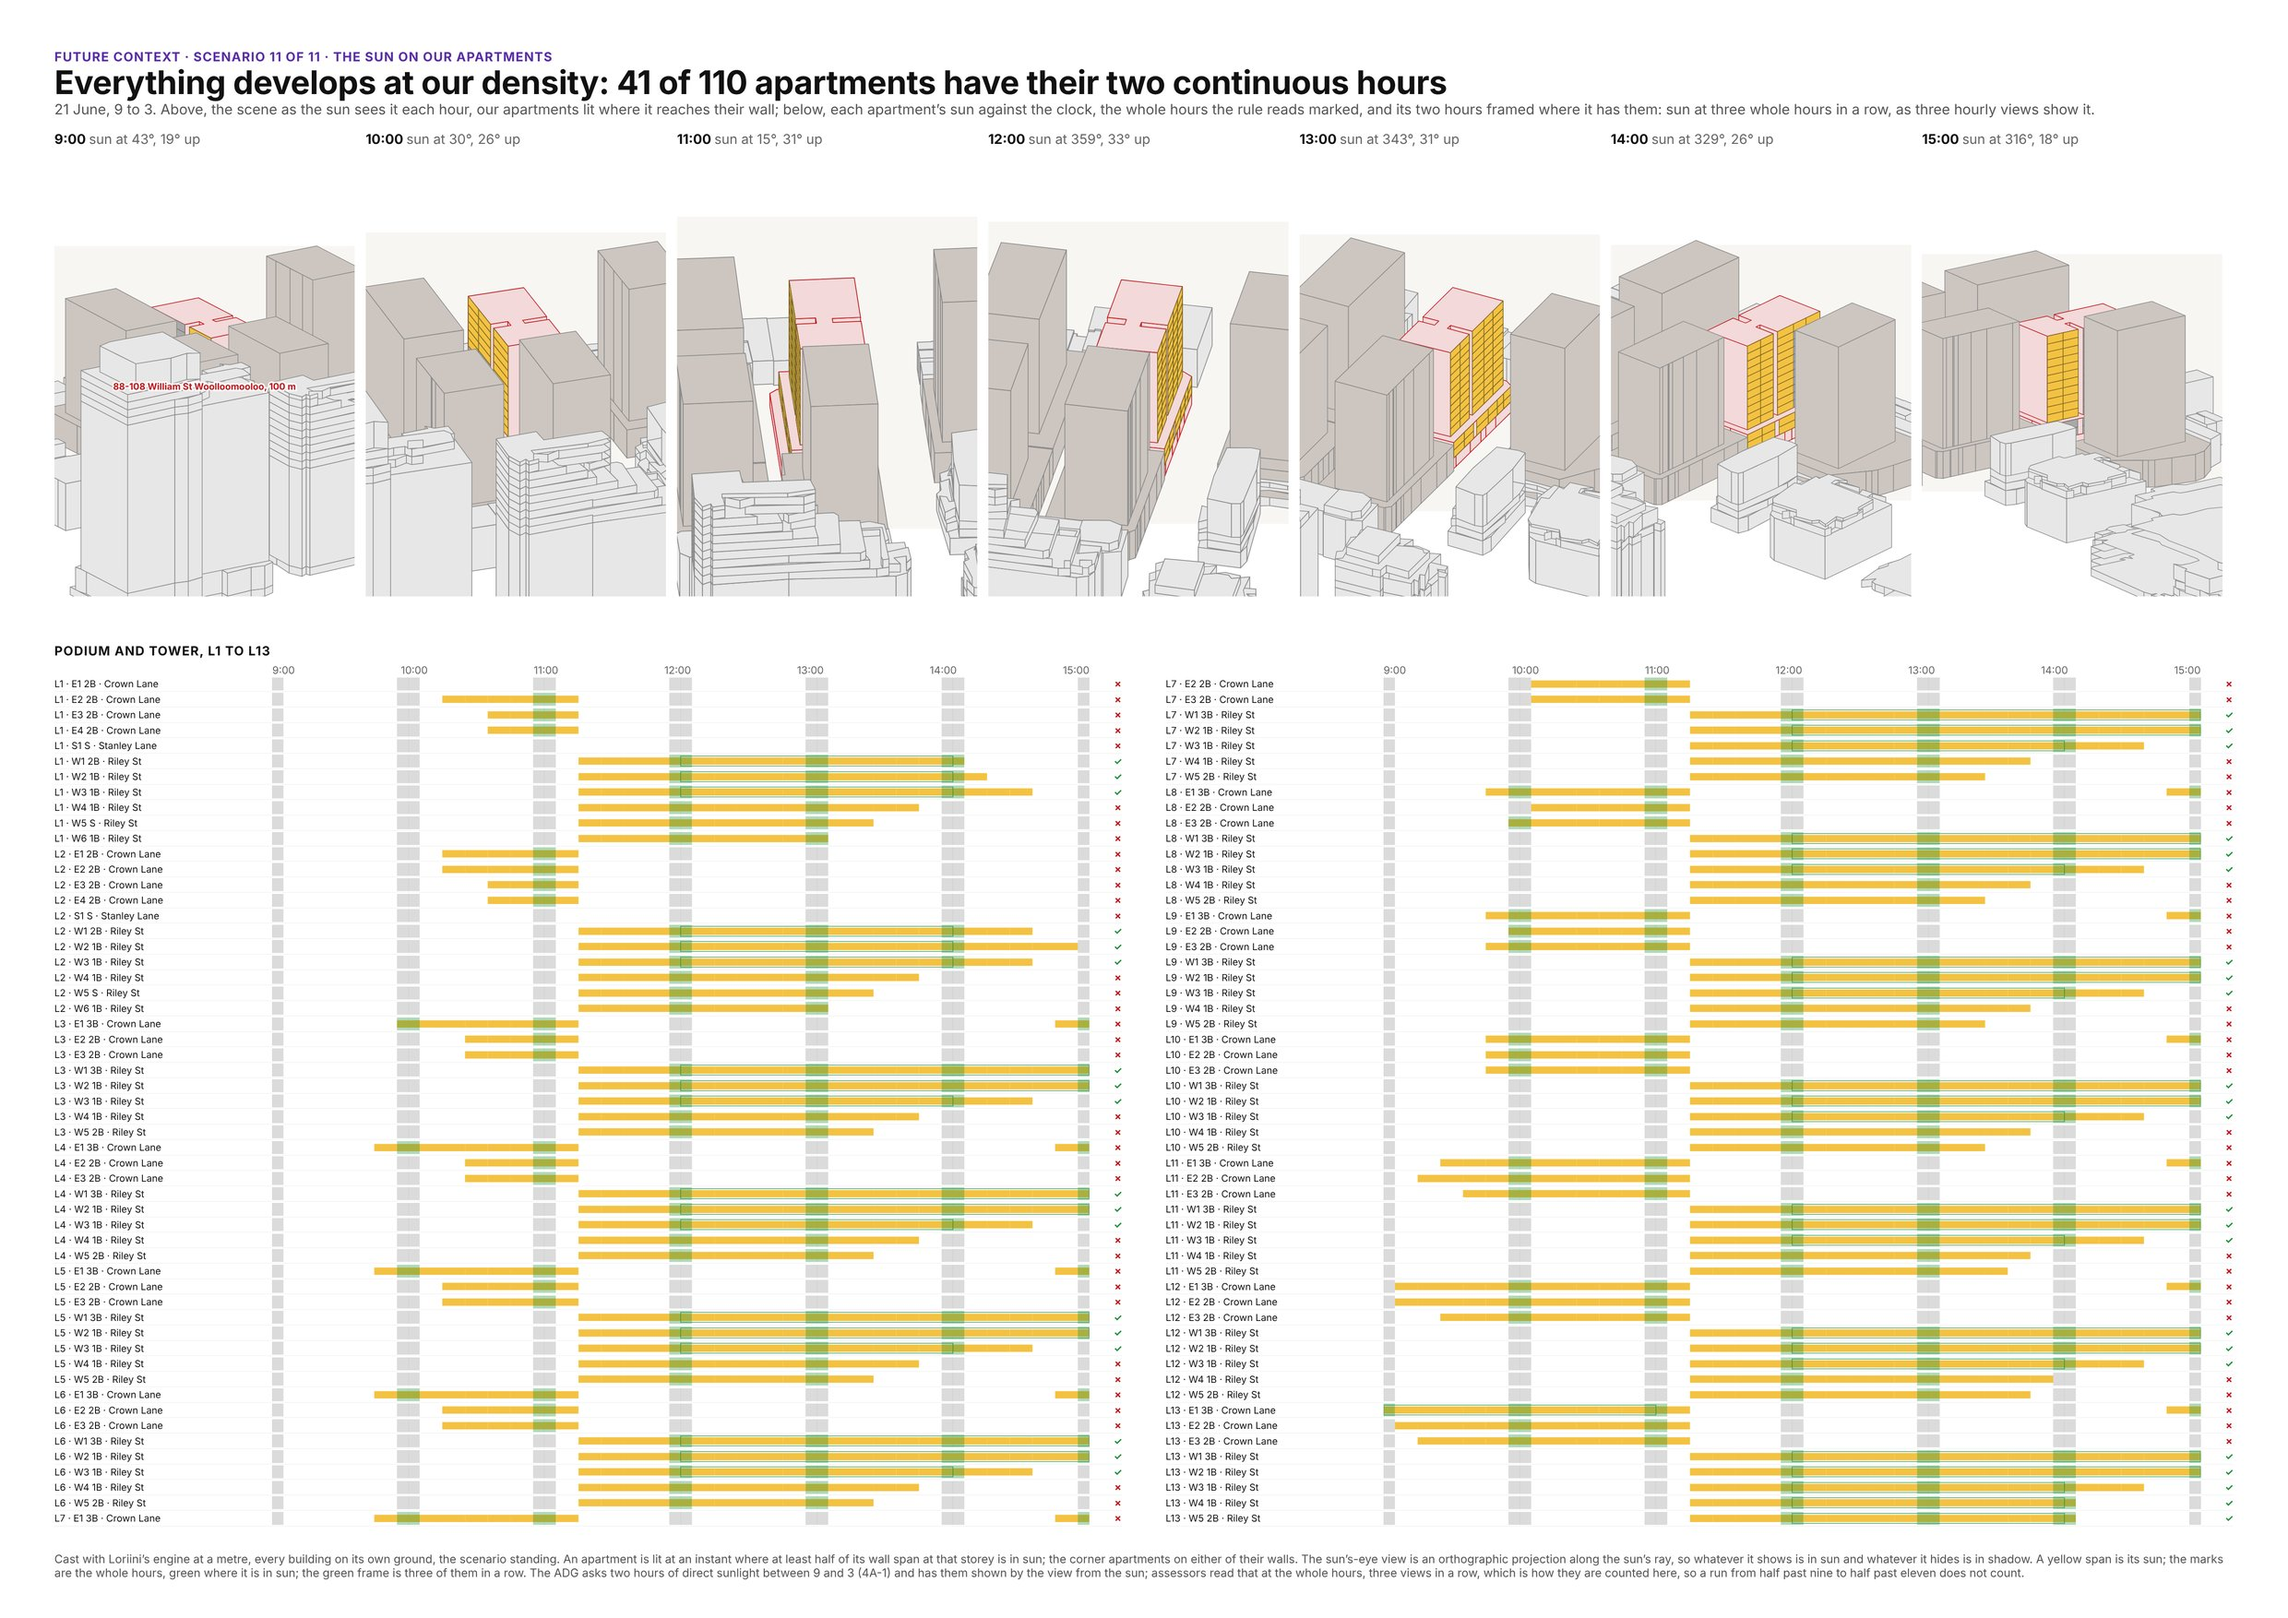
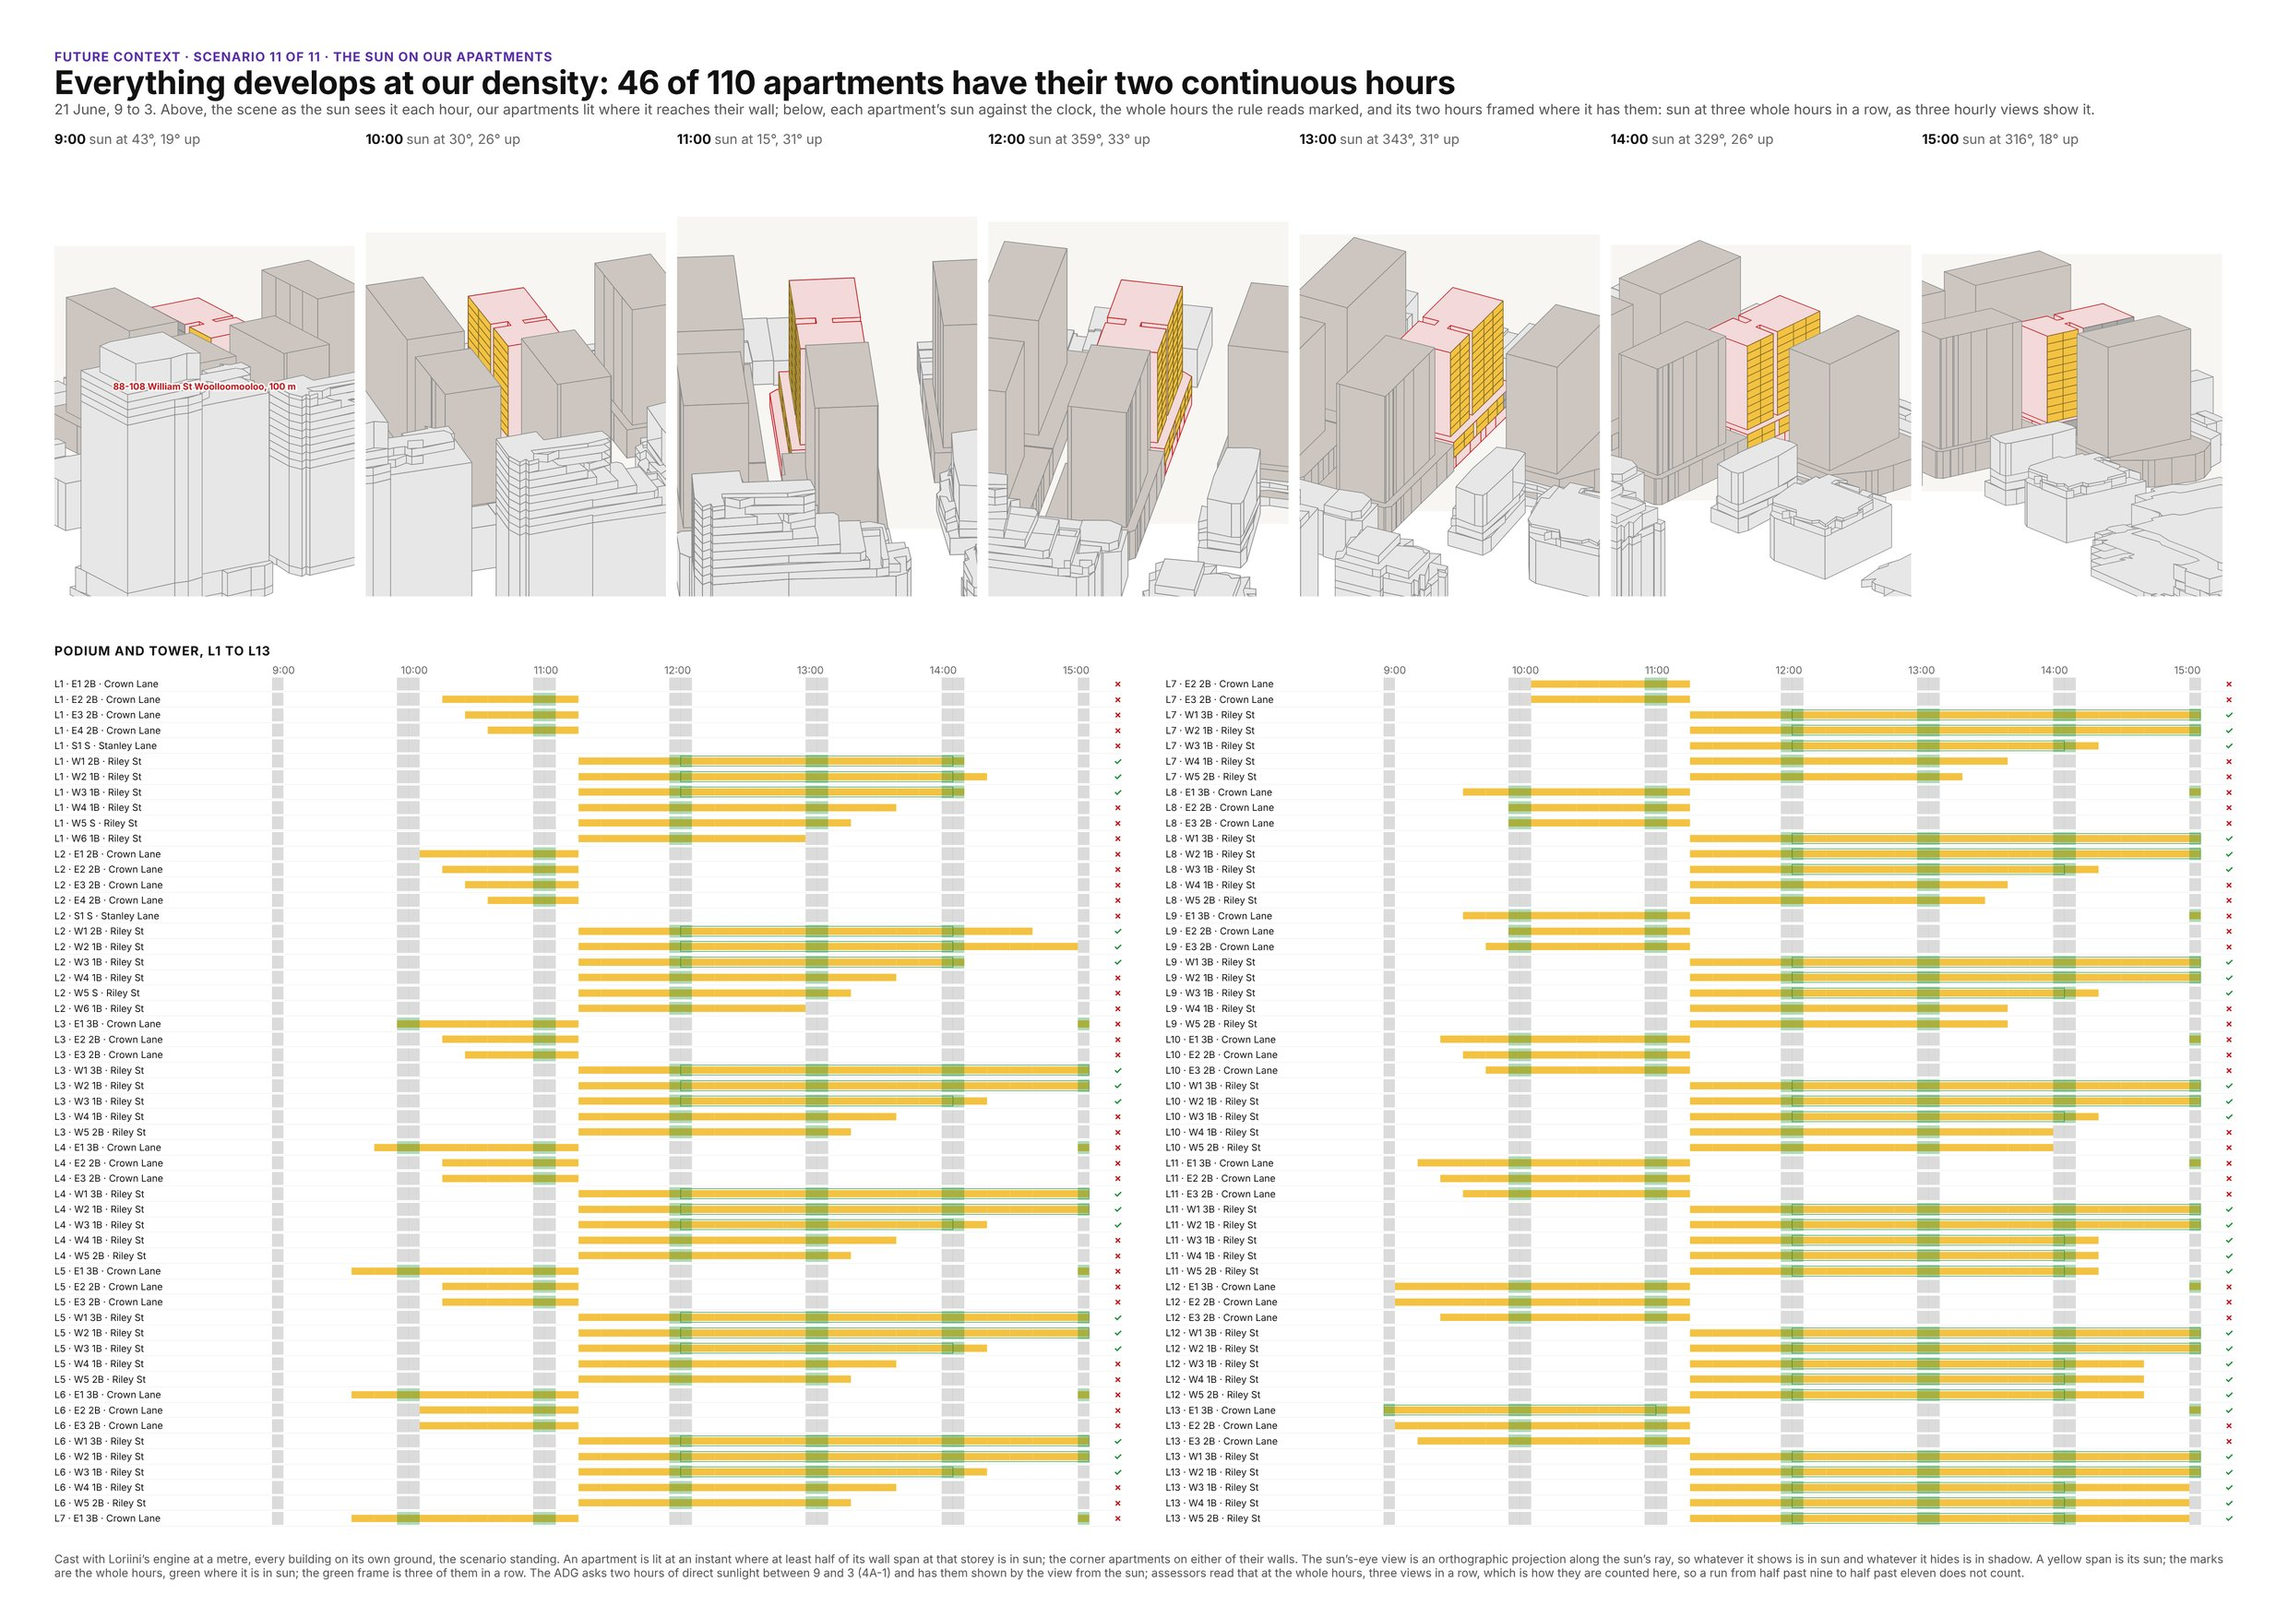
Future context: the tower across Riley Street 3 m off its neighbours, towers trimmed in depth so their setbacks hold, and a verdict that says what is short
The tower on 91-107 Riley Street now stands 3 m off its neighbouring lots, as ours stands off our northern boundary; all four neighbours come to 17 storeys at 7.5:1. A tower that lands on our density is made shallower from its back rather than shorter about its middle, so the face on the street it follows and both its ends stay exactly where the scenario sets them.

Where a building is short of a separation or a setback the sheet's verdict line now says which and by what ("E stands 3 m off 109 Riley St, where the ADG asks 6 m of a blank wall") in red; the colour was read off the wrong slot once a third reading of a separation was added.

Claude-Session: https://claude.ai/code/session_01VNRPaoqvXaWWnp37ybZcdp

diff --git a/scripts/capacity_study/future_context.py b/scripts/capacity_study/future_context.py
@@ -396,6 +396,30 @@ def trim_to(poly, want):
     return largest(poly.intersection(band(p, u, L / 2 - hi, L / 2 + hi)))
 
 
+def trim_depth(poly, want, parcel, spec):
+    """A footprint made shallower from its back to the area asked: the face on the street or line it follows stays
+    where it is, and so do both its ends, so no setback the scenario set is lost to the trim."""
+    if poly.area <= want:
+        return poly
+    cs = list(poly.minimum_rotated_rectangle.exterior.coords)[:4]
+    e01, e12 = math.dist(cs[0], cs[1]), math.dist(cs[1], cs[2])
+    p, q = (cs[0], cs[1]) if e01 >= e12 else (cs[1], cs[2])            # a long side
+    L, D = max(e01, e12), min(e01, e12)
+    u = ((q[0] - p[0]) / L, (q[1] - p[1]) / L)
+    n = (-u[1], u[0])
+    c = poly.centroid
+    if (c.x - p[0]) * n[0] + (c.y - p[1]) * n[1] < 0:
+        n = (-n[0], -n[1])                                            # from that side into the footprint
+    _, n_ref, _ = reference(parcel, spec)                             # from the frontage into the parcel
+    if n[0] * n_ref[0] + n[1] * n_ref[1] < 0:                         # that side is the back: start from the other
+        p, n = (p[0] + n[0] * D, p[1] + n[1] * D), (-n[0], -n[1])
+    lo, hi = 0.0, D
+    for _ in range(30):
+        m = (lo + hi) / 2
+        lo, hi = (lo, m) if largest(poly.intersection(band(p, n, -1.0, m))).area > want else (m, hi)
+    return largest(poly.intersection(band(p, n, -1.0, hi)))
+
+
 def our_fsr():
     """Our density: the file's `site.fsr` where it states one, else off our massing as the scenario draws it."""
     return site_yield()[0] if TOWER else (S.get('fsr') or SITE_GFA / SITE_AREA)
@@ -728,7 +752,7 @@ def resolve(scn):
             base = b.get('base', 0)
             rows.append(dict(poly=fp, n=n, base=base, typ=b['type'], key=p['key'], spec=dict(b, boundary=lk, streetBoundary=sk), **info))
         # `storeys: "parity"`: the slabs and towers rise until the parcel reaches our density, sharing the floor space
-        # the podium leaves; a single tower's length is then trimmed so the floor space lands on that density
+        # the podium leaves; a single tower is then made shallower from its back so the floor space lands on that density
         dense = [r for r in rows if r['n'] == 'parity']
         if dense:
             want_gba = our_fsr() * area / EFFICIENCY
@@ -738,7 +762,7 @@ def resolve(scn):
                 r['n'] = r['base'] + max(1, math.ceil((want_gba - fixed) / plate))
             if len(dense) == 1 and dense[0]['spec'].get('footprint') != 'lot':
                 r = dense[0]
-                r['poly'] = trim_to(r['poly'], (want_gba - fixed) / (r['n'] - r['base']))
+                r['poly'] = trim_depth(r['poly'], (want_gba - fixed) / (r['n'] - r['base']), parcel, r['spec'])
                 r['plate'] = plate_of(r['poly'])
         gba = sum(r['poly'].area * (r['n'] - r['base']) for r in rows)
         gfa = EFFICIENCY * gba
@@ -2365,7 +2389,14 @@ def page(no, scn):
                               yld=yield_text(pk['fsr'], pk['gfa'], round(pk['gfa'] / UNIT_GFA / 5) * 5) if pk else ''))
     ours = sun_cell(sunb.get('site'), today=True) if sunb.get('site') else None
     worst = max((max({'clear': 0, 'one face blank': 1, 'both faces blank': 1, 'short of a blank face': 2}[b['v']], b['bworst']) for b in buildings), default=0)
-    allow = ['yes', 'yes, on the conditions in amber', 'no, the red building cannot keep the separation or its setbacks'][worst] if buildings else 'nothing new to allow'
+    # where it is no, say which building and what it is short of
+    short_of = [f'{b["name"].split(" · ")[0]} stands {b["d"]:.0f} m from our tower' for b in buildings if b['v'] == 'short of a blank face']
+    for key_, rows_ in bset.items():
+        for r_ in rows_:
+            if r_['verdict'] == 'short of a blank face':
+                short_of.append(f'{key_} and {r_["other"]} stand {r_["d"]:.0f} m apart across {r_["name"]}' if r_['kind'] == 'pair'
+                                else f'{key_} stands {r_["d"]:.0f} m off {r_["name"]}, where the ADG asks {r_["blank"]:g} m of a blank wall')
+    allow = (['yes', 'yes, on the conditions in amber', 'not as drawn: ' + '; '.join(dict.fromkeys(short_of))][worst] if buildings else 'nothing new to allow')
     parts_of = {nm.split(' · ')[0]: geo for nm, d, hab, blank, v, geo in sep if geo['new']}
     for b in buildings:
         g = parts_of.get(b['name'].split(' · ')[0])
@@ -2374,7 +2405,7 @@ def page(no, scn):
             b['parts'] = '+'.join(f'{x:.0f}' for x in ((a_, gap_, c_) if gap_ >= 0.3 else (a_, c_)))
     oy = site_yield()
     SUMMARY.append(dict(heritage=HERITAGE_HITS.get(scn['title'], []), ours_yield=yield_text(oy[0], oy[1], oy[2], about=oy[2] != SITE_UNITS), no=no, title=scn['title'], horizon=scn.get('horizon', ''), lead=fill_in(scn['lead'], parcels, units), units=units, buildings=buildings, ours=ours,
-                        allow=allow, allow_colour=list(VERDICT_COLOUR.values())[worst], failing=sun_failing, shaded=sun_shaded,
+                        allow=allow, allow_colour=['#1f8f3a', '#c77d00', '#c0161c'][worst], failing=sun_failing, shaded=sun_shaded,
                         mini=mini_plan(parcels, blds, existing, RET, sep), big=mini_plan(parcels, blds, existing, RET, sep, k=0.45, big=True, bset=bset),
                         axo=axo(scn, parcels, blds, existing, RET), sun=sun, scn=scn))
     return f'''<!doctype html><html><head><meta charset="utf-8"><title>Future context · Scenario {no}</title><style>{CSS}</style></head><body>

diff --git a/README.md b/README.md
@@ -2042,7 +2042,7 @@ middle and parallel to it, half the separation each side, and
 `site.tower.toCentre` holds our own tower the same way; `storeys: "parity"` raises it until
 its parcel reaches our density (our building's FSR as the scenario draws
 it, or `site.fsr` where the file states one), the podium's floor space
-counted and a single tower's length trimmed about its middle so the floor
+counted and a single tower made shallower from its back so the floor
 space lands on that density. Riley Street's last scenario sets every site
 round the site, the block across Riley Street with them, at our density.
 There each neighbour's tower is a 22 m slab as long as its lot allows, its
